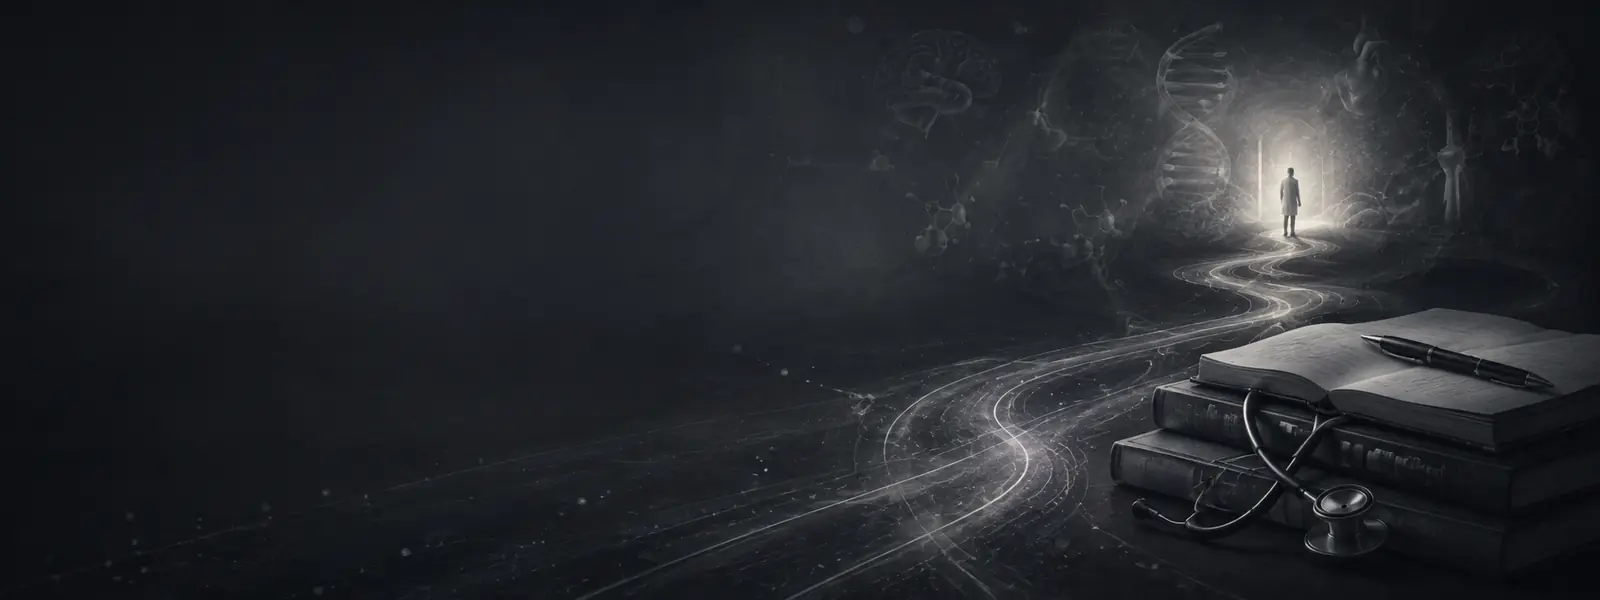
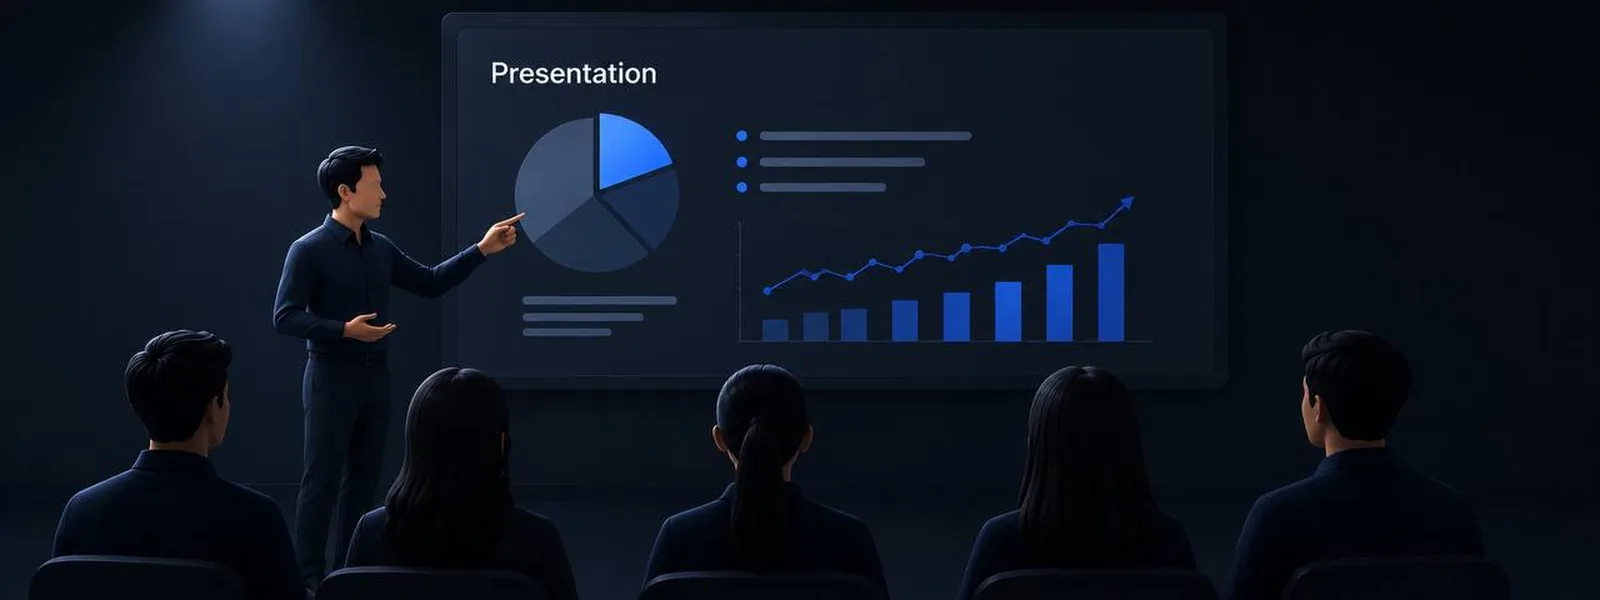
Replace project with production-ready version

diff --git a/src/features/lectures/components/VideoCard.tsx b/src/features/lectures/components/VideoCard.tsx
@@ -47,6 +47,8 @@ export const VideoCard = ({
   const [shouldLoadDuration, setShouldLoadDuration] = useState(false);
   const cardRef = useRef<HTMLButtonElement | null>(null);
 
+  // Avoid creating hidden YouTube players for cards that the user has not even
+  // scrolled near. This preserves the duration UI while eliminating off-screen work.
   useEffect(() => {
     if (!videoId) return;
     const node = cardRef.current;
@@ -155,46 +157,46 @@ export const VideoCard = ({
       ref={cardRef}
       type="button"
       onClick={handleVideoPress}
-      className="group flex w-full flex-row items-center gap-4 rounded-2xl border border-neutral-200/80 bg-white p-3 text-left shadow-sm transition-[transform,box-shadow,border-color] duration-200 hover:shadow-md dark:border-white/[0.08] dark:bg-[#17181B] dark:shadow-[0_8px_24px_rgba(0,0,0,0.22)]"
+      className="group flex w-full flex-row items-center bg-white dark:bg-[#1C1C1E] border border-neutral-200/80 dark:border-white/[0.10] rounded-2xl shadow-sm hover:shadow-md transition-shadow duration-200 p-4 sm:p-5 gap-4 sm:gap-5 cursor-pointer text-left appearance-none"
       aria-label={`Watch ${video?.title || "YouTube video"}`}
     >
-      <span className="video-thumb relative w-32 shrink-0 aspect-video overflow-hidden rounded-xl border border-black/[0.04] bg-neutral-100 dark:border-white/[0.06] dark:bg-[#232428]">
+      <span className="video-thumb relative w-40 sm:w-48 lg:w-56 shrink-0 aspect-video bg-neutral-100 dark:bg-[#2C2C2E] rounded-xl overflow-hidden border border-black/[0.04] dark:border-white/[0.06]">
         {videoId ? (
           <img
             loading="lazy"
             decoding="async"
             src={`https://img.youtube.com/vi/${videoId}/mqdefault.jpg`}
             alt={video?.title || "YouTube video"}
-            className="h-full w-full object-cover"
+            className="w-full h-full object-cover"
           />
         ) : (
-          <span className="flex h-full w-full items-center justify-center">
-            <PlayCircle className="h-8 w-8 text-neutral-400" />
+          <span className="w-full h-full flex items-center justify-center">
+            <PlayCircle className="w-8 h-8 text-neutral-400" />
           </span>
         )}
 
-        <span className="pointer-events-none absolute inset-0 bg-black/10 transition group-hover:bg-black/0" />
+        <span className="absolute inset-0 bg-black/10 group-hover:bg-black/0 transition pointer-events-none" />
 
         {realDuration !== null && (
-          <span className="pointer-events-none absolute bottom-1 right-1 rounded-md bg-black/80 px-1.5 py-0.5 font-mono text-[10px] font-medium text-white backdrop-blur-sm">
+          <span className="absolute bottom-1 right-1 bg-black/80 backdrop-blur-sm text-white text-[10px] font-mono px-1.5 py-0.5 rounded-md font-medium pointer-events-none">
             {formatDuration(realDuration)}
           </span>
         )}
       </span>
 
-      <span className="min-w-0 flex-1 py-1 text-left">
-        <span className="block max-w-full whitespace-normal break-words text-sm font-semibold leading-snug text-neutral-900 transition-colors [overflow-wrap:anywhere] dark:text-white">
+      <span className="flex-1 min-w-0 py-1 text-left">
+        <span className="block text-base sm:text-lg font-semibold text-neutral-900 dark:text-white transition-colors leading-snug whitespace-normal break-words [overflow-wrap:anywhere] max-w-full">
           {video?.title}
         </span>
 
         {video?.description && (
-          <span className="mt-0.5 mb-2 block text-xs leading-relaxed text-neutral-500 dark:text-neutral-400">
+          <span className="block text-sm text-neutral-500 dark:text-neutral-400 mt-1 mb-3 leading-relaxed">
             {video.description}
           </span>
         )}
 
-        <span className="pointer-events-none inline-flex items-center justify-center rounded-full bg-red-600 px-4 py-1.5 text-xs font-semibold text-white transition group-hover:bg-red-700 group-active:bg-red-800">
-          <PlayCircle className="mr-1.5 h-3.5 w-3.5" />
+        <span className="inline-flex items-center justify-center px-5 sm:px-6 py-2 sm:py-2.5 bg-red-600 group-hover:bg-red-700 group-active:bg-red-800 text-white text-sm font-semibold rounded-full transition pointer-events-none">
+          <PlayCircle className="w-4 h-4 mr-2" />
           Watch
         </span>
       </span>

diff --git a/src/features/lectures/components/LectureDetailView.tsx b/src/features/lectures/components/LectureDetailView.tsx
@@ -2684,7 +2684,9 @@ initial={{ opacity: 0, y: 3 }}
  className="p-6 space-y-section flex-1 flex flex-col justify-between w-full"
  >
  <div className="space-y-4">
- <div className="grid grid-cols-1 sm:grid-cols-2 gap-4">
+ <div
+ className={`grid grid-cols-1 gap-5 ${getRelevantVideos().length > 1 ? "xl:grid-cols-2" : "w-full max-w-[1100px]"}`}
+>
  {getRelevantVideos().length === 0 ? (
  <div className="col-span-1 sm:col-span-2 flex flex-col items-center justify-center py-16 px-6 text-center w-full antialiased">
  <div className="relative mb-6">
